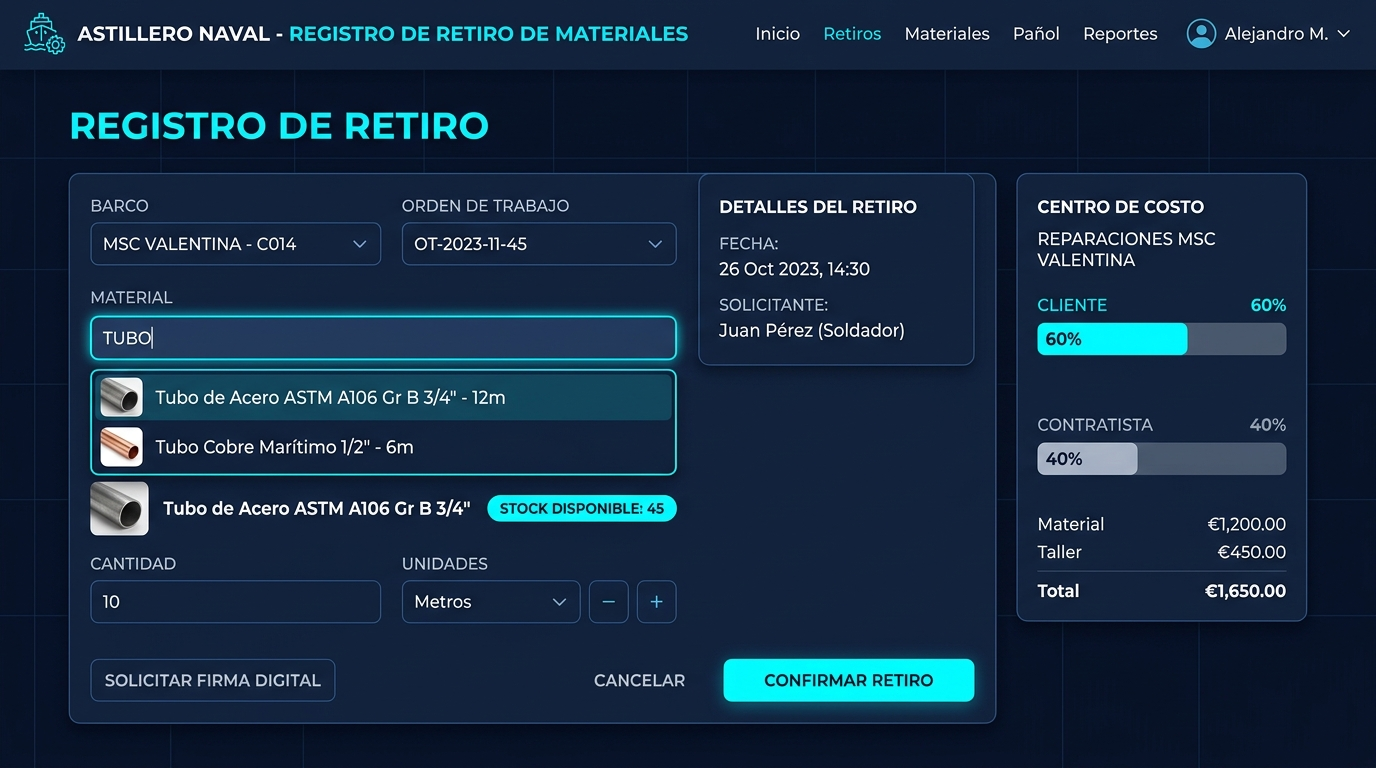
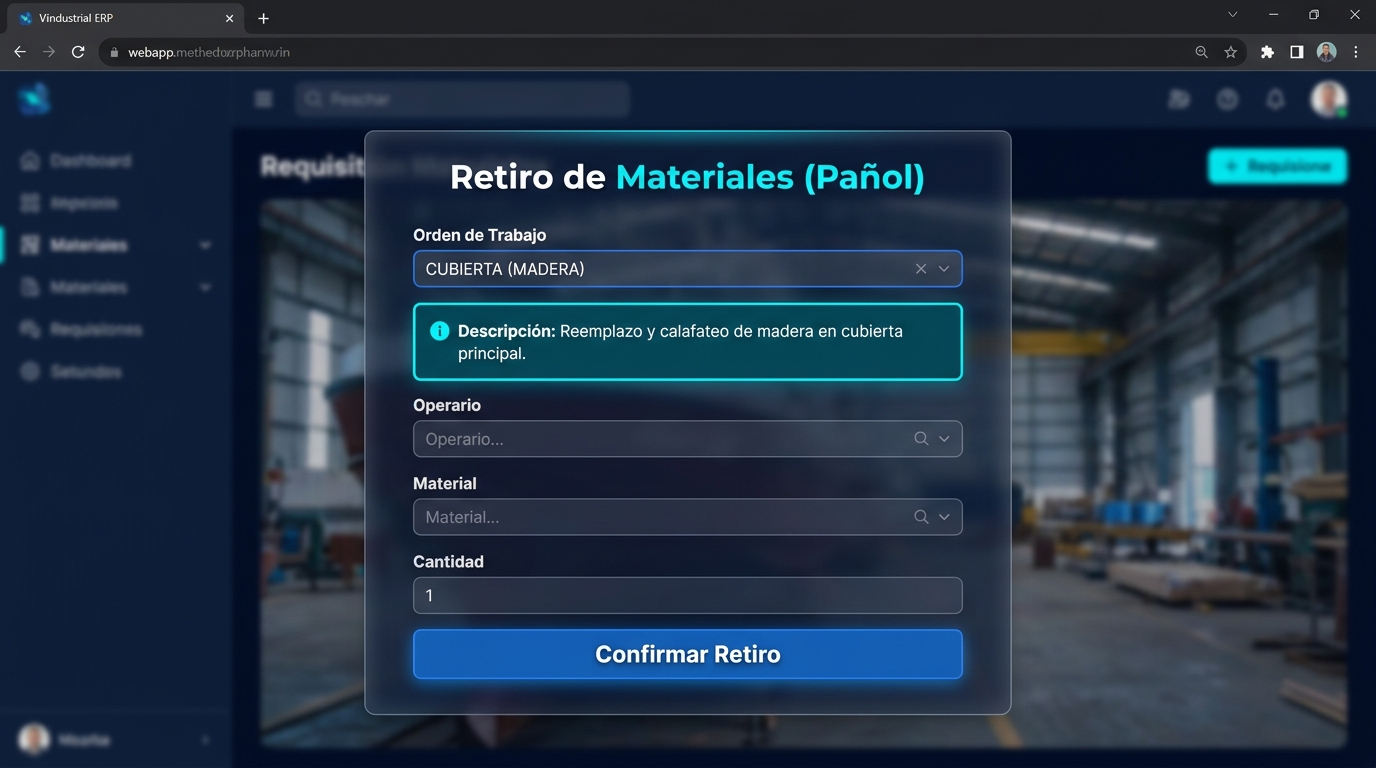
fix(Presentacion, Mockups): estandarizar layout e inyectar descripcion OT humana en UI
- HTML: Se reemplazaron las unidades relativas (vw/vh) en las imagenes por max-height: 550px estatico. Esto impide que el motor de Reveal.js, al reescalar el lienzo, expanda las imagenes horizontales mas alla del limite de la pantalla (evitando el corte).
- Mockups: Se regeneraron los formularios de Pañol y Compras. Ahora el campo OT muestra un nombre de proyecto legible ('PROA MODIFICACIÓN', 'CUBIERTA (MADERA)') y exponen el recuadro de 'Ayuda/Descripción' debajo del input para validar el alcance del trabajo ante el pañolero.

diff --git a/Presentacion/presentation.html b/Presentacion/presentation.html
@@ -151,8 +151,8 @@
 
         /* Video Mockup sequence */
         .mockup-img {
-            max-width: 90vw !important;
-            max-height: 65vh !important;
+            max-width: 100%;
+            max-height: 550px !important;
             height: auto;
             object-fit: contain;
             border-radius: 12px;
